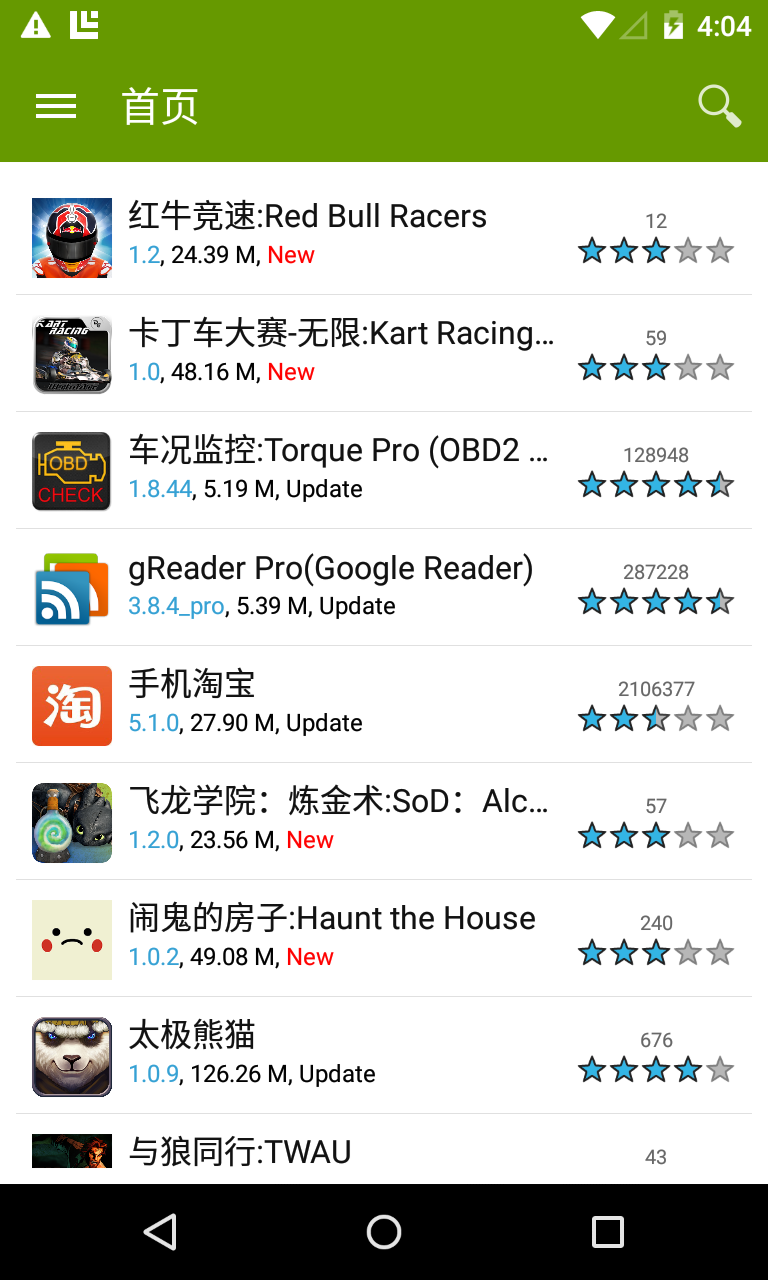
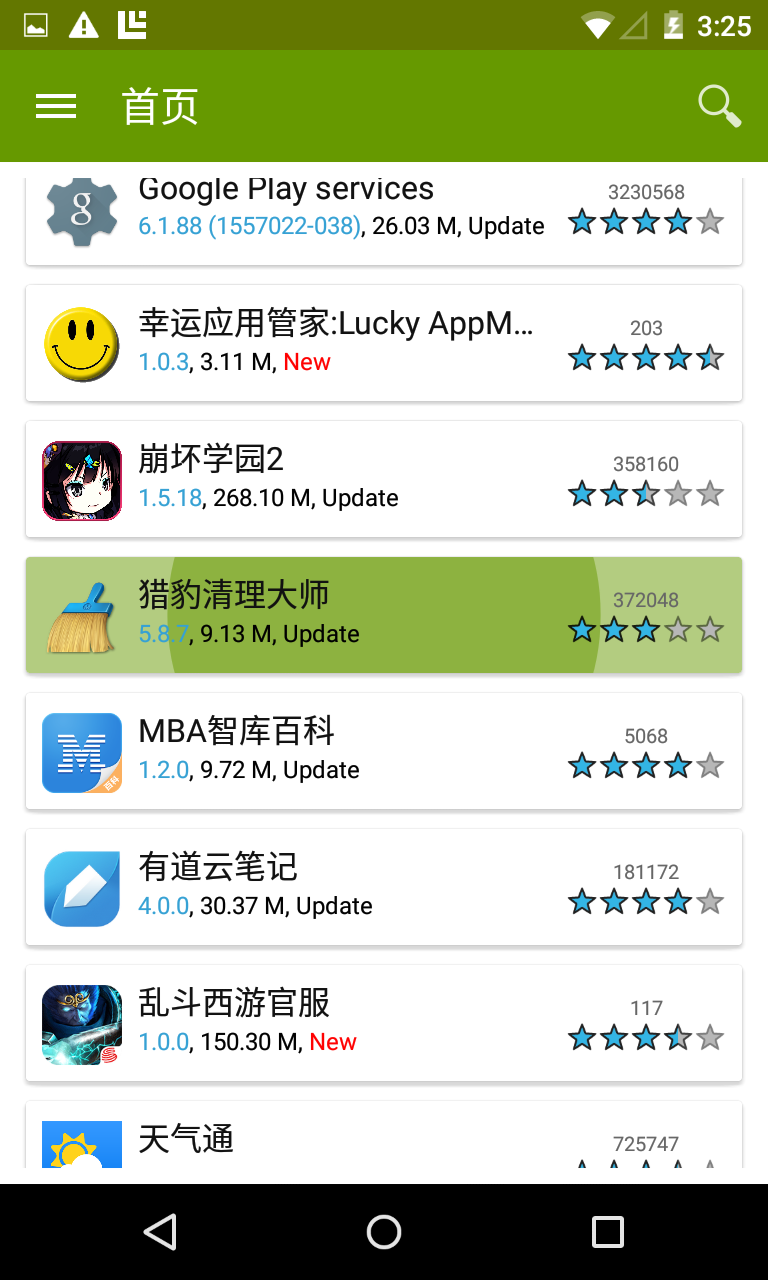
add card view

diff --git a/app/src/main/java/bjzhou/coolapk/app/ui/HomepageFragment.java b/app/src/main/java/bjzhou/coolapk/app/ui/HomepageFragment.java
@@ -1,6 +1,10 @@
 package bjzhou.coolapk.app.ui;
 
 import android.content.Intent;
+import android.graphics.Canvas;
+import android.graphics.Color;
+import android.graphics.Paint;
+import android.graphics.Rect;
 import android.os.Bundle;
 import android.os.Handler;
 import android.os.Message;
@@ -77,6 +81,7 @@ public class HomepageFragment extends Fragment {
     private boolean loading = true;
     private int previousTotal;
     private int visibleThreshold = 5;
+    private int mInsets;
 
     public HomepageFragment() {
     }
@@ -101,6 +106,7 @@ public class HomepageFragment extends Fragment {
         if (args != null) {
             mQuery = args.getString("query");
         }
+
     }
 
     @Override
@@ -108,10 +114,18 @@ public class HomepageFragment extends Fragment {
                              Bundle savedInstanceState) {
         View rootView = inflater.inflate(R.layout.fragment_main, container, false);
 
+        mInsets = (int) getResources().getDimension(R.dimen.card_insets);
+
         mRecyclerView = (RecyclerView) rootView.findViewById(R.id.apkList);
         mLayoutManager = new LinearLayoutManager(getActivity());
         mRecyclerView.setLayoutManager(mLayoutManager);
         mRecyclerView.setItemAnimator(new DefaultItemAnimator());
+        mRecyclerView.addItemDecoration(new RecyclerView.ItemDecoration() {
+            @Override
+            public void getItemOffsets(Rect outRect, View view, RecyclerView parent, RecyclerView.State state) {
+                outRect.set(mInsets,mInsets,mInsets,mInsets);
+            }
+        });
 
         mAdapter = new ApkListAdapter(getActivity(), mRecyclerView);
         mRecyclerView.setAdapter(mAdapter);
